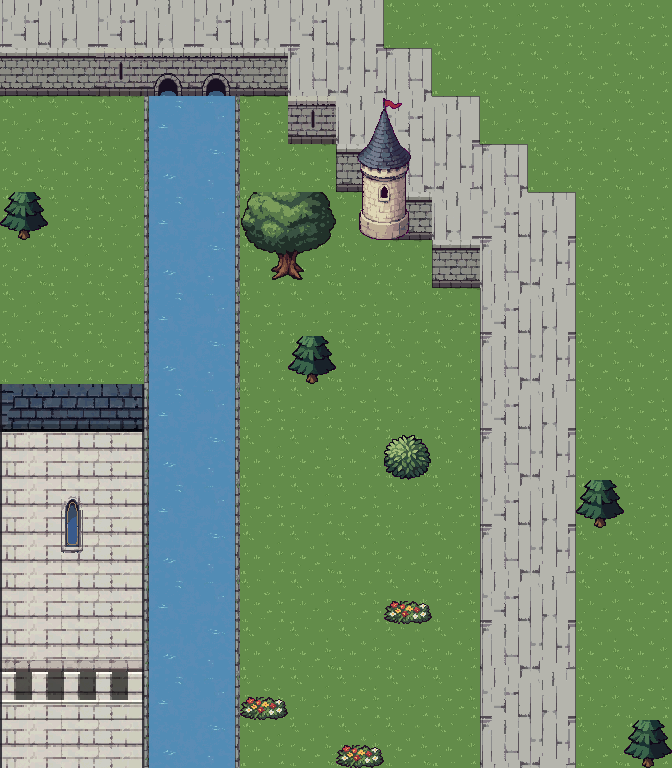
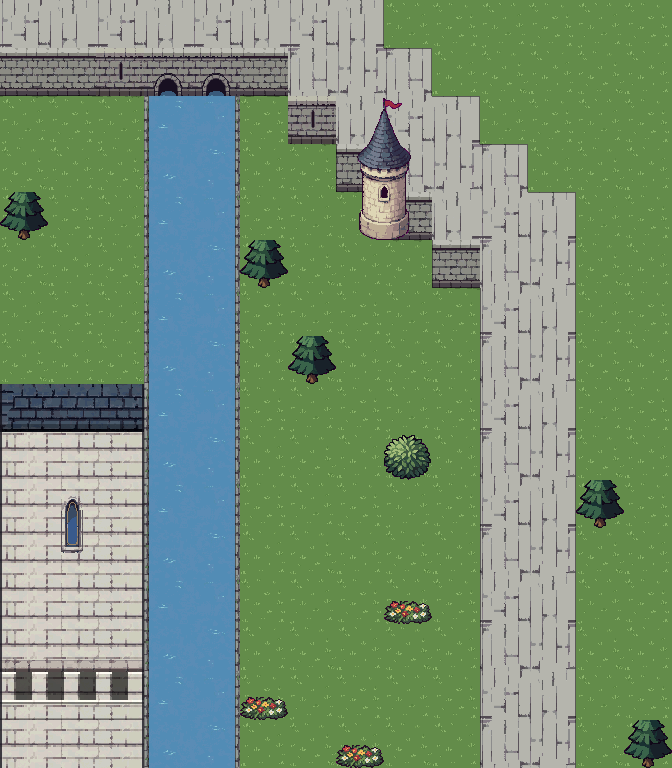
T5c: town, castle and world data
- CU: open the NE grass pocket (the oak at (53,3) becomes a fir at (53,5)), fill the
  south pocket (35-36,67) with wall; cornelia turns on no_unreachable_walkable
- CT-4: the castle door guards stand beside the bridge head, (28,19) and (32,19)
- CT-10: new lines for the villager, the castle door guard (with a new rescue line)
  and the garden maid
- ST-9: the treasury guard and the cellar steward no longer assume the audience
- ST-10: tower sage keyed on GOT_LUTE, princess GOT_LUTE variant, cook rescue line,
  garden maid's rescue line without the gardens
- IN-3: names for Cornelia, the world map and all 11 legacy maps
- MS-8: camp passes through build_map; only the overworld (compiled and legacy) has camp
- tests: corneliaLayout (reachability, bridge head), new actOneDialog and mapNames

Changed region(s): [[0.3438, 0.25, 0.5, 0.375]]

diff --git a/tests/data/actOneDialog.test.ts b/tests/data/actOneDialog.test.ts
@@ -1,0 +1,84 @@
+import { describe, it, expect } from 'vitest';
+import { readFileSync } from 'node:fs';
+import { resolve, dirname, join } from 'node:path';
+import { fileURLToPath } from 'node:url';
+import { parse } from 'yaml';
+import { resolveNPCDialog, type MapData, type MapNPC } from '../../src/types/index.js';
+
+// CT-10 / ST-9 / ST-10 (T5c): the act-1 dialog, read from the compiled maps the game plays (assets/maps/ai).
+const root = resolve(dirname(fileURLToPath(import.meta.url)), '../..');
+const ids = parse(readFileSync(join(root, 'assets/maps/ai/index.yaml'), 'utf-8')) as string[];
+const maps = ids.map((id) => parse(readFileSync(join(root, 'assets/maps/ai', `${id}.yaml`), 'utf-8')) as MapData);
+const npcs: Array<{ map: string; npc: MapNPC }> = maps.flatMap((m) => m.npcs.map((npc) => ({ map: m.id, npc })));
+const npc = (id: string): MapNPC => {
+  const found = npcs.filter(({ npc: n }) => n.id === id);
+  expect(found.length, id).toBe(1);
+  return found[0].npc;
+};
+
+const FLAG_SETS: string[][] = [[], ['INTRO_COMPLETE'], ['INTRO_COMPLETE', 'PRINCESS_RESCUED'],
+  ['INTRO_COMPLETE', 'PRINCESS_RESCUED', 'GOT_LUTE']];
+const say = (n: MapNPC, flags: string[]): string[] => resolveNPCDialog(n.dialog, (f) => flags.includes(f));
+// lines that several NPCs may share on purpose
+const SHARED_OK = new Set([JSON.stringify(['Long live the King!'])]);
+
+describe('act-1 dialog (CT-10)', () => {
+  it('reads every NPC of the act-1 maps', () => {
+    expect(ids).toContain('cornelia');
+    expect(ids).toContain('cornelia-castle');
+    expect(npcs.length).toBeGreaterThan(40);
+  });
+
+  it('no line talks about a "dungeon"', () => {
+    for (const { map, npc: n } of npcs) {
+      for (const flags of FLAG_SETS) {
+        for (const line of say(n, flags)) expect(line, `${map} ${n.id}`).not.toMatch(/dungeon/i);
+      }
+    }
+  });
+
+  it('no two NPCs say the same lines under any flag set (chests and an allow-list aside)', () => {
+    for (const flags of FLAG_SETS) {
+      const byLines = new Map<string, string[]>();
+      for (const { map, npc: n } of npcs.filter(({ npc: c }) => !c.chestItem)) {
+        const key = JSON.stringify(say(n, flags));
+        if (key === '[]' || SHARED_OK.has(key)) continue;
+        byLines.set(key, [...(byLines.get(key) ?? []), `${map}:${n.id}`]);
+      }
+      const dupes = [...byLines.entries()].filter(([, who]) => who.length > 1);
+      expect(dupes, `flags {${flags.join(', ')}}`).toEqual([]);
+    }
+  });
+});
+
+describe('castle lines before the audience (ST-9)', () => {
+  it('the treasury guard and the cellar steward do not assume the party has met the King', () => {
+    for (const id of ['treasury_guard', 'cellar_steward']) {
+      for (const line of say(npc(id), [])) expect(line, id).not.toMatch(/for you|royal order/i);
+    }
+  });
+});
+
+describe('dialog keyed to the right flag (ST-10)', () => {
+  it('the tower sage mentions the lute only once the party has it', () => {
+    const rescued = say(npc('tower_sage'), ['INTRO_COMPLETE', 'PRINCESS_RESCUED']);
+    expect(rescued.join(' ')).not.toMatch(/lute/i);
+    expect(say(npc('tower_sage'), FLAG_SETS[3]).join(' ')).toMatch(/lute/i);
+  });
+
+  it('the princess stops offering the lute once it is given', () => {
+    const princess = npc('princess');
+    expect(princess.giftFlag).toBe('GOT_LUTE');
+    expect(say(princess, ['PRINCESS_RESCUED']).join(' ')).toMatch(/take this lute/i);
+    expect(say(princess, FLAG_SETS[3]).join(' ')).not.toMatch(/take this lute/i);
+  });
+
+  it('the cook has a line for the princess coming home', () => {
+    const cook = npc('castle_cook');
+    expect(say(cook, ['PRINCESS_RESCUED'])).not.toEqual(say(cook, []));
+  });
+
+  it('the garden maid does not say the princess walks in the gardens', () => {
+    expect(say(npc('garden_maid'), ['PRINCESS_RESCUED']).join(' ')).not.toMatch(/garden/i);
+  });
+});

diff --git a/tests/data/mapNames.test.ts b/tests/data/mapNames.test.ts
@@ -1,0 +1,51 @@
+import { describe, it, expect } from 'vitest';
+import { readFileSync, readdirSync } from 'node:fs';
+import { resolve, dirname, join } from 'node:path';
+import { fileURLToPath } from 'node:url';
+import { parse } from 'yaml';
+import type { MapData } from '../../src/types/index.js';
+
+// IN-3 (T5c): the HUD shows a map's `name`, so every map has one. MS-8 (T5c): only the world map allows camping.
+const root = resolve(dirname(fileURLToPath(import.meta.url)), '../..');
+const read = (path: string) => parse(readFileSync(join(root, path), 'utf-8')) as MapData & { camp?: boolean };
+const compiledIds = parse(readFileSync(join(root, 'assets/maps/ai/index.yaml'), 'utf-8')) as string[];
+const legacyIds = readdirSync(join(root, 'assets/maps')).filter((f) => f.endsWith('.yaml'))
+  .map((f) => f.replace(/\.yaml$/, ''));
+const compiled = compiledIds.map((id) => read(`assets/maps/ai/${id}.yaml`));
+const legacy = legacyIds.map((id) => read(`assets/maps/${id}.yaml`));
+// The temple's source (assets-src/maps/temple-of-fiends.yaml) belongs to T5d, which adds its name; drop this entry
+// once T5d is merged.
+const NAMED_BY_T5D = new Set(['temple-of-fiends']);
+
+describe('map names (IN-3)', () => {
+  it('reads all the compiled and legacy maps', () => {
+    expect(compiled.length).toBeGreaterThan(20);
+    expect(legacyIds).toEqual(expect.arrayContaining(['cornelia', 'overworld', 'temple-of-fiends', 'test-town']));
+  });
+
+  it('every compiled map has a name', () => {
+    for (const m of compiled.filter((c) => !NAMED_BY_T5D.has(c.id))) {
+      expect(typeof m.name === 'string' && m.name.trim().length > 0, m.id).toBe(true);
+    }
+  });
+
+  it('every legacy map has a name', () => {
+    for (const m of legacy) expect(typeof m.name === 'string' && m.name.trim().length > 0, m.id).toBe(true);
+  });
+
+  it('Cornelia and the overworld have their HUD names', () => {
+    for (const maps of [compiled, legacy]) {
+      expect(maps.find((m) => m.id === 'cornelia')?.name).toBe('Cornelia');
+      expect(maps.find((m) => m.id === 'overworld')?.name).toBe('World Map');
+    }
+  });
+});
+
+describe('camping (MS-8)', () => {
+  it('only the overworld allows Tent and Cabin, compiled and legacy', () => {
+    for (const maps of [compiled, legacy]) {
+      expect(maps.filter((m) => m.camp === true).map((m) => m.id)).toEqual(['overworld']);
+      expect(maps.filter((m) => m.camp !== undefined && m.camp !== true).map((m) => m.id)).toEqual([]);
+    }
+  });
+});

diff --git a/tests/data/corneliaLayout.test.ts b/tests/data/corneliaLayout.test.ts
@@ -147,6 +147,24 @@ describe('Cornelia edges (CT-6)', () => {
     expect(n).toBeGreaterThan(150);
   });
 
+  it('every walkable cell can be reached from the south gate (CU), and the compiler checks it', () => {
+    expect(Object.keys(map.entrances ?? {})[0]).toBe('south_gate');
+    expect((town as Source & { no_unreachable_walkable?: boolean }).no_unreachable_walkable).toBe(true);
+    const seen = reachable({ ...map, npcs: [] });
+    const lost: string[] = [];
+    for (let y = 0; y < map.height; y++) {
+      for (let x = 0; x < map.width; x++) if (col.isWalkable(x, y, walk) && !seen.has(`${x},${y}`)) lost.push(`${x},${y}`);
+    }
+    expect(lost).toEqual([]);
+    expect(seen.size).toBeGreaterThan(2600);
+  });
+
+  it('no NPC stands on the 3-wide bridge head at the castle door (CT-4)', () => {
+    const onBridge = map.npcs.filter((n) => n.y === 19 && n.x >= 29 && n.x <= 31).map((n) => n.id);
+    expect(onBridge).toEqual([]);
+    for (const id of ['castle_door_guard_w', 'castle_door_guard_e']) expect(map.npcs.some((n) => n.id === id), id).toBe(true);
+  });
+
   it('every edge exit can be reached from the south gate, and arrivals stay at the gates', () => {
     const seen = reachable({ ...map, npcs: [] });
     for (const t of map.transitions.filter((tr) => tr.targetMap === 'overworld')) {

diff --git a/assets-src/tools/layouts/cornelia.py b/assets-src/tools/layouts/cornelia.py
@@ -63,6 +63,9 @@ for (x, y) in walls:
 INNER = [(3, 29), (16, 29), (21, 31), (39, 31), (44, 29), (58, 29)]
 walls |= set(g.line(INNER, "#", 2))
 g.rect(0, 0, 2, 17, "#", only=".")                # the sealed pocket outside the NW corner: solid wall (CT-6)
+# CU (T5c): the grass pocket between the south oak, the turret and the south wall: solid wall (the NE pocket is opened
+# up instead, see the quiet garden's fir)
+g.rect(35, 67, 36, 67, "#", only=".")
 
 # ── water: in under the north wall, round the moat, then winding through the town and out under the south wall ──
 water = g.line([(51, 0), (51, 20)], "~", 2)
@@ -164,7 +167,7 @@ deco([["stone_bench"]], 54, 16)
 obj(type="bush", x=56, y=9)
 fir(54, 7)
 fir(56, 22)
-oak(53, 3)
+fir(53, 5)                                       # CU: was an oak at (53, 3) that walled in the grass behind it
 
 # ── town: shops ──
 HOUSE = dict(type="house", w=5, door=2, windows=[1, 3])
@@ -247,11 +250,14 @@ for (x, y) in [(55, 2), (56, 27), (56, 36), (56, 58), (1, 22), (1, 33), (4, 56),
     deco(TURRET, x, y, on_wall=True)
 
 npcs = [
-    {"id": "castle_door_guard_w", "sprite": "guard", "x": CX - 1, "y": 19,
+    # CT-4: the door guards stand beside the 3-wide bridge head, not on it
+    {"id": "castle_door_guard_w", "sprite": "guard", "x": CX - 2, "y": 19,
      "dialog": ["The castle of Cornelia. The King receives travellers in the throne room upstairs."]},
-    {"id": "castle_door_guard_e", "sprite": "guard", "x": CX + 1, "y": 19,
-     "dialog": [{"condition": "PRINCESS_RESCUED", "text": ["The princess is home! The whole kingdom rejoices."]},
-                {"text": ["Since Garland took the princess, the King has not slept."]}]},
+    {"id": "castle_door_guard_e", "sprite": "guard", "x": CX + 2, "y": 19,
+     "dialog": [{"condition": "PRINCESS_RESCUED", "text": ["Her Highness rode in through this very gate.",
+                                                           "I will tell my grandchildren I stood guard that day!"]},
+                {"text": ["I keep watch on the castle gate, day and night.",
+                          "No one has crossed this bridge unseen since Garland rode out."]}]},
     {"id": "inner_gate_guard", "sprite": "guard", "x": CX - 2, "y": 33,
      "dialog": ["Beyond this gate are the castle gardens. Mind the moat!"]},
     {"id": "guard", "sprite": "guard", "x": CX + 3, "y": 50, "wander": True,
@@ -265,7 +271,7 @@ npcs = [
                                                          "Seek the four crystals across the land."]},
                 {"text": ["The four crystals have gone dark.", "Only the Warriors of Light can restore them."]}]},
     {"id": "villager", "sprite": "villager", "x": 34, "y": 45, "wander": True,
-     "dialog": ["Buy spells early. They make a huge difference in the first dungeon!"]},
+     "dialog": ["Buy spells early. Garland is no easy foe!"]},
     {"id": "market_vendor_w", "sprite": "merchant", "x": 24, "y": 41,
      "dialog": ["Fresh apples from the royal orchard!", "...Sorry, these are not for adventurers."]},
     {"id": "market_vendor_e", "sprite": "merchant", "x": 37, "y": 41,
@@ -283,13 +289,14 @@ npcs = [
     {"id": "postern_guard", "sprite": "guard", "x": 8, "y": 3,
      "dialog": ["This postern lets the gardeners out to the fields.", "Watch for wolves past the orchard."]},
     {"id": "garden_maid", "sprite": "villager_f", "x": 42, "y": 25, "wander": True,
-     "dialog": [{"condition": "PRINCESS_RESCUED", "text": ["Her Highness walks in the gardens again. Thank you!"]},
-                {"text": ["Garland was the King's most trusted knight...", "Why would he turn against us?"]}]},
+     "dialog": [{"condition": "PRINCESS_RESCUED", "text": ["Her Highness is home at last! I will cut her the first roses."]},
+                {"text": ["I tend the roses for Her Highness.", "I hope she comes home before they fade."]}]},
 ]
 
 OUT = "overworld"
 doc = {
     "id": "cornelia",
+    "name": "Cornelia",
     "kits": ["town", "castle"],
     "music": "town",
     "entrances": {"south_gate": [CX, 67], "west_gate": [4, 44], "east_gate": [55, 44], "castle_gate": [55, 24],
@@ -308,6 +315,7 @@ doc = {
     # CT-8: every road and lane ends at a gate, a door, a bridge or one of these gardens
     "road_check": {"materials": ["cobble", "dirt"], "ends": LANE_ENDS},
     "no_static_chokepoints": True,
+    "no_unreachable_walkable": True,              # CU (T5c): every walkable cell can be reached
 }
 HEADER = """GENERATED by assets-src/tools/layouts/cornelia.py - edit the script, not this file.
 Cornelia (original layout): castle precinct and town inside one bent outer wall; the river feeds the moat and winds

diff --git a/assets-src/tools/layouts/castle.py b/assets-src/tools/layouts/castle.py
@@ -134,7 +134,8 @@ f1.npcs += [
     {"id": "barracks_soldier", "sprite": "guard", "x": 8, "y": 12, "wander": True,
      "dialog": ["Off duty. Do not tell the captain I was napping."]},
     {"id": "castle_cook", "sprite": "villager_f", "x": 6, "y": 24, "wander": True,
-     "dialog": ["A feast for the princess's return is ready the moment she is home!"]},
+     "dialog": [{"condition": "PRINCESS_RESCUED", "text": ["The feast is ready! Her Highness is home!"]},
+                {"text": ["A feast for the princess's return is ready the moment she is home!"]}]},
     {"id": "castle_maid", "sprite": "villager_f", "x": 9, "y": 28, "wander": True,
      "dialog": [{"condition": "PRINCESS_RESCUED", "text": ["Her Highness is safe at last. Thank you!"]},
                 {"text": ["Garland was the King's most trusted knight...", "Why would he turn against us?"]}]},
@@ -144,7 +145,8 @@ f1.npcs += [
     {"id": "library_mage", "sprite": "mage", "x": 39, "y": 12, "wander": True,
      "dialog": ["Shh! This is a library.", "...The sage in the east tower knows more than every book here."]},
     {"id": "treasury_guard", "sprite": "guard", "x": 36, "y": 23,
-     "dialog": ["The King ordered the storeroom below opened for you.", "Take what you need for your journey."]},
+     # ST-9: holds before the audience with the King (there is no "met the King" flag)
+     "dialog": ["The storeroom below is open to any who would face Garland.", "Take what you need before you set out."]},
 ]
 f1.transitions += [{"x": x, "y": 33, "targetMap": "cornelia", "targetEntrance": "castle"} for x in (21, 22)]
 f1.write("Cornelia Castle 1F: grand hall (stairs up to the throne room), barracks, banquet hall, library, treasury"
@@ -234,8 +236,10 @@ f2.npcs += [
                           "Bring her home safely, and I will rebuild the bridge to the north for you."]}],
      "cutscene": {"id": "act1_complete", "requiredFlag": "PRINCESS_RESCUED", "onceFlag": "INTRO_COMPLETE"}},
     {"id": "princess", "sprite": "princess", "x": 23, "y": 8, "showIf": "PRINCESS_RESCUED",
-     "dialog": ["Thank you for rescuing me from Garland.", "Please take this lute. It has been in our family for generations.",
-                "They say that one day its song will open a sealed way."],
+     "dialog": [{"condition": "GOT_LUTE", "text": ["Thank you again. Keep the lute safe."]},
+                {"text": ["Thank you for rescuing me from Garland.",
+                          "Please take this lute. It has been in our family for generations.",
+                          "They say that one day its song will open a sealed way."]}],
      "giftItem": "lute", "giftFlag": "GOT_LUTE"},
     {"id": "chancellor", "sprite": "old_man", "x": 18, "y": 10,
      "dialog": [{"condition": "INTRO_COMPLETE", "text": ["The King's builders are at work on the bridge to the north."]},
@@ -275,7 +279,7 @@ f3.deco([["desk"]], 9, 4)
 f3.deco([["orb_white"]], 3, 8)
 f3.deco([["plant"]], 12, 9)
 f3.npcs += [{"id": "tower_sage", "sprite": "old_man", "x": 6, "y": 5,
-             "dialog": [{"condition": "PRINCESS_RESCUED",
+             "dialog": [{"condition": "GOT_LUTE",
                          "text": ["So the princess gave you the old lute.",
                                   "Keep it close. Somewhere a door sleeps that only its song can wake."]},
                         {"text": ["Ah, visitors! From up here I watch the stars... and the crystals.",
@@ -305,7 +309,7 @@ b1.npcs += [
     {"id": "chest_castle_tent", "sprite": "chest", "x": 15, "y": 9, "chestItem": "tent",
      "chestFlag": "CHEST_CORNELIA_TENT", "dialog": ["You found a Tent!"]},
     {"id": "cellar_steward", "sprite": "old_man", "x": 13, "y": 6,
-     "dialog": ["Wine, grain and old armour, all the way to the walls.", "The chests are yours, by royal order."]},
+     "dialog": ["Wine, grain and old armour, all the way to the walls.", "Take what you need. The King would want it so."]},
 ]
 b1.write("Cornelia Castle B1: the cellar storerooms under the treasury.", {"stairs": [10, 4]},
          mats={"floor_stone": "floor_stone", "in_wall_face": "castle_wall_in",

diff --git a/assets-src/tools/build_map.py b/assets-src/tools/build_map.py
@@ -72,7 +72,7 @@ FACE_PLAIN, FACE_BASE = (56, 84), (84, 96)
 BANK_R = 34              # px: blur radius that rounds the canal outline
 SHADOW = 2               # px of shadow below an overlay edge (stays well under the 4 px budget)
 PASSTHROUGH = ("name", "music", "encounterRate", "encounters", "battleBackgrounds", "canSave", "scriptedEncounters",
-               "vehicles", "keyItemGates", "noWander", "inspect", "encounterZones")
+               "vehicles", "keyItemGates", "noWander", "inspect", "encounterZones", "camp")
 ALPHA_MIN = 0.25         # collide: alpha: a footprint cell blocks when this share of its pixels is opaque art
 SIDES = ("north", "south", "west", "east")
 

diff --git a/assets-src/tools/layouts/overworld.py b/assets-src/tools/layouts/overworld.py
@@ -538,6 +538,8 @@ def main() -> None:
     gate = "The bridge has collapsed into the sea. Only the King's builders could repair it."
     doc = {
         "id": "overworld",
+        "name": "World Map",
+        "camp": True,                     # MS-8: Tent and Cabin work on the world map only (FF1)
         "kits": ["overworld", "town", "temple"],
         "music": "overworld",
         "terrain": "organic",
